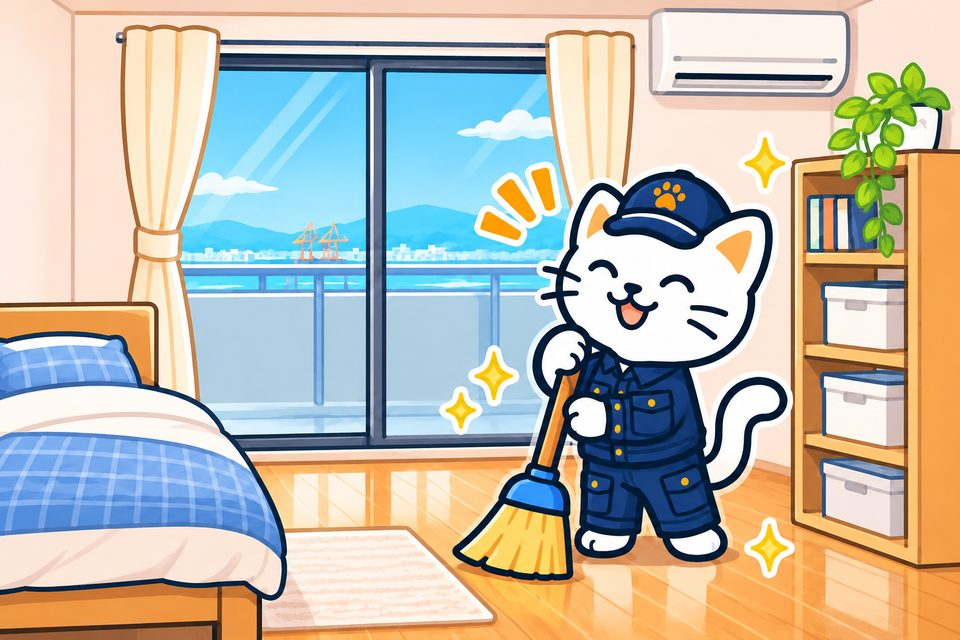
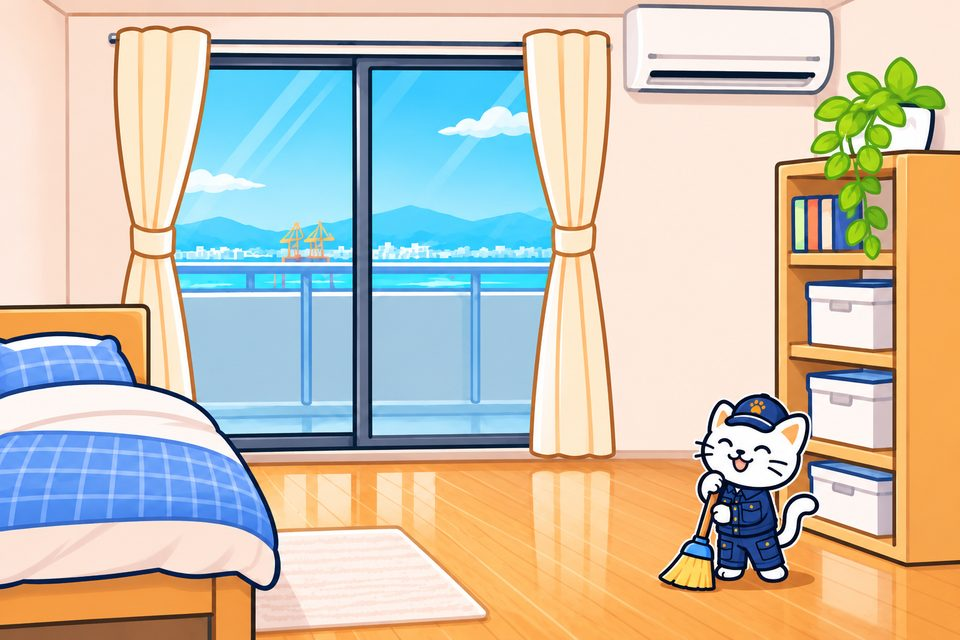
事例のBefore/Afterを部屋主役の版に差し替え（猫はAfterの隅に小さく）
Claude-Session: https://claude.ai/code/session_01ThdLgrSp6qkZTgPQHP1J1Z

diff --git a/index.html b/index.html
@@ -344,7 +344,7 @@
         <div class="ba">
           <figure class="ba__fig"><img src="images/works-01-before.jpg" alt="作業前（段ボールが積まれたワンルーム）" width="960" height="640" loading="lazy"><figcaption>Before</figcaption></figure>
           <span class="ba__arrow" aria-hidden="true"></span>
-          <figure class="ba__fig"><img src="images/works-01-after.jpg" alt="作業後（片付いたワンルーム）" width="960" height="640" loading="lazy"><figcaption>After</figcaption></figure>
+          <figure class="ba__fig"><img src="images/works-01-after.jpg" alt="作業後（段ボールが片付いたワンルーム）" width="960" height="640" loading="lazy"><figcaption>After</figcaption></figure>
         </div>
       </li>
       <li class="card works">
@@ -353,7 +353,7 @@
         <div class="ba">
           <figure class="ba__fig"><img src="images/works-02-before.jpg" alt="作業前（養生された家具と段ボール）" width="960" height="640" loading="lazy"><figcaption>Before</figcaption></figure>
           <span class="ba__arrow" aria-hidden="true"></span>
-          <figure class="ba__fig"><img src="images/works-02-after.jpg" alt="作業後（搬出が完了したリビング）" width="960" height="640" loading="lazy"><figcaption>After</figcaption></figure>
+          <figure class="ba__fig"><img src="images/works-02-after.jpg" alt="作業後（家具と段ボールを搬出した空室）" width="960" height="640" loading="lazy"><figcaption>After</figcaption></figure>
         </div>
       </li>
       <li class="card works">
